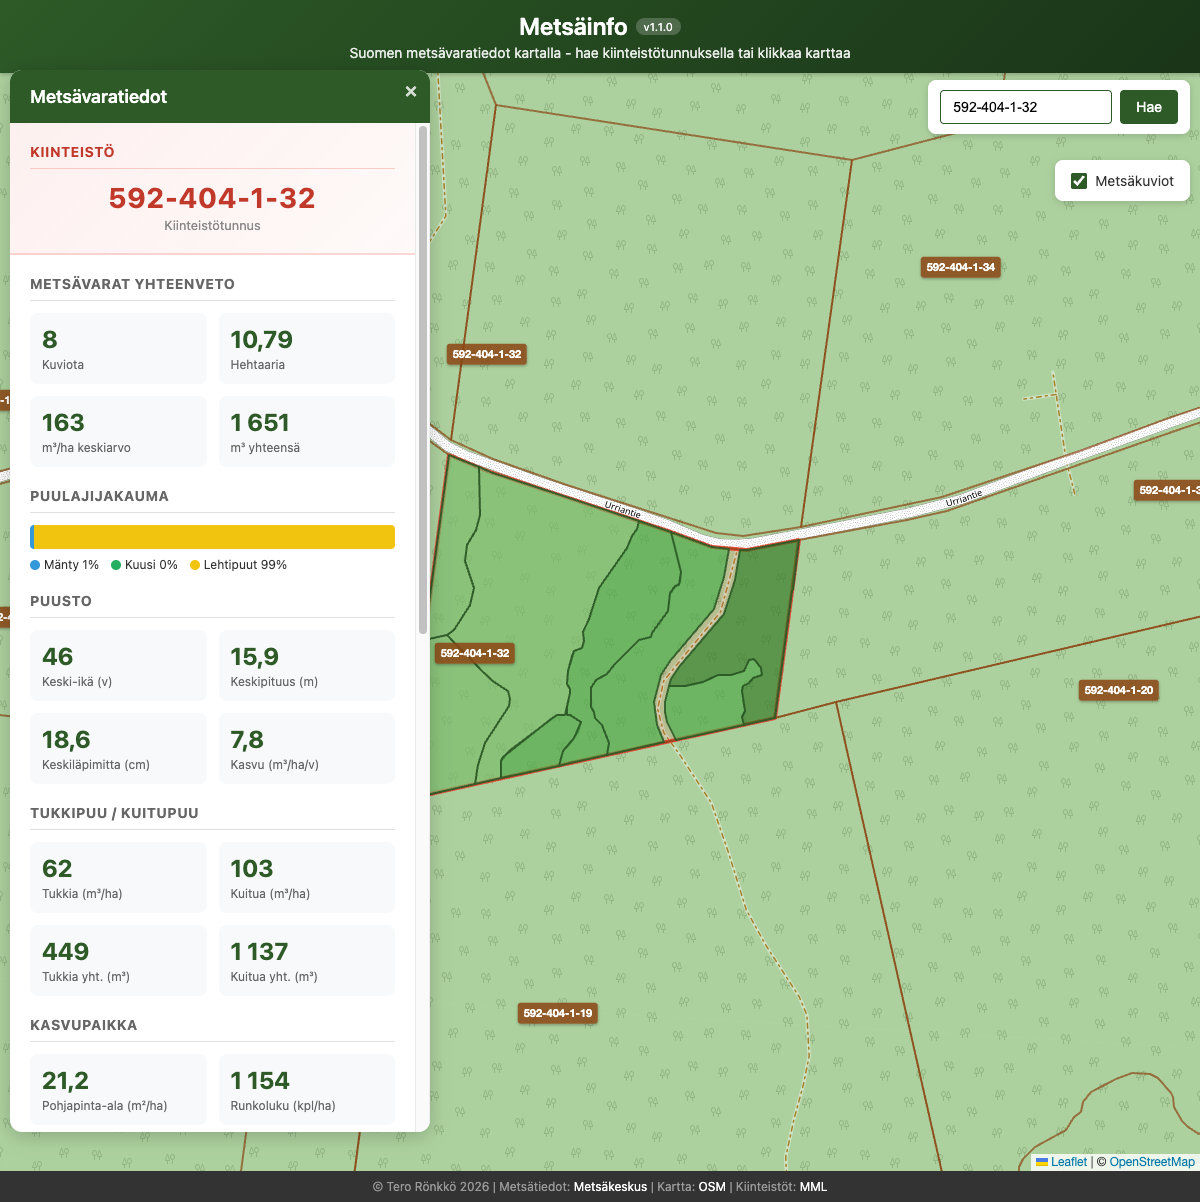
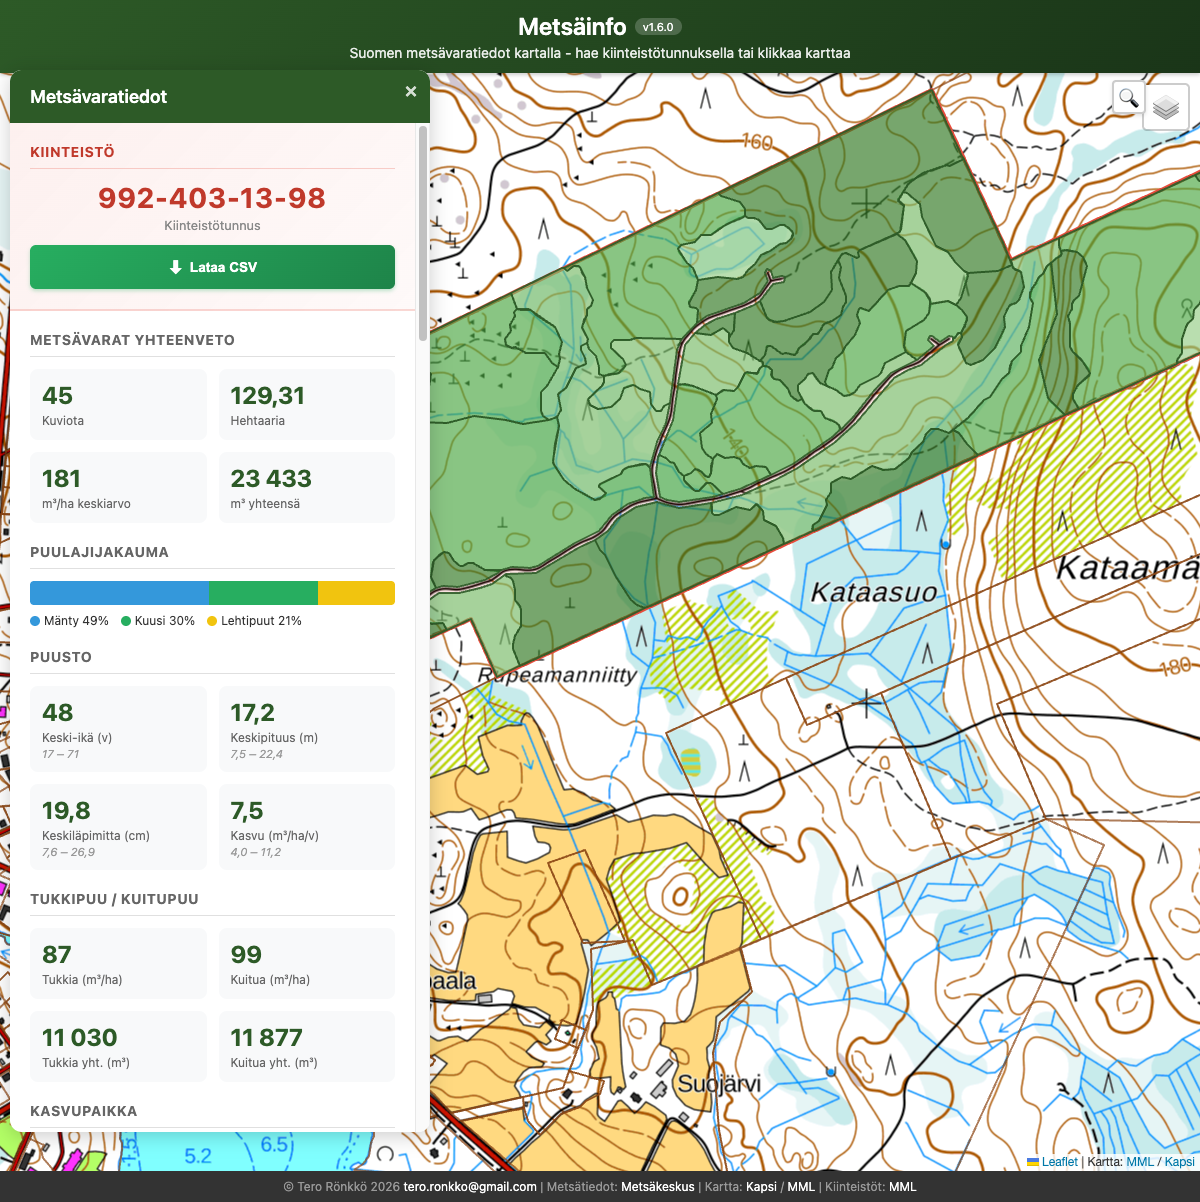
Päivitä kuvakaappaus ja keskitä kartta Suolahden itäpuolelle
- Uusi kuvakaappaus metsätiedoilla näkyvissä
- Kartan oletuskeskipiste siirretty 2km itään (25.85 -> 25.90)

diff --git a/app.js b/app.js
@@ -22,8 +22,8 @@ const crsEPSG3067 = new L.Proj.CRS(
 
 // Configuration
 const CONFIG = {
-    // Default center in WGS84 (lat, lng) - Suolahti
-    defaultCenter: [62.57, 25.85],
+    // Default center in WGS84 (lat, lng) - 2km east of Suolahti
+    defaultCenter: [62.57, 25.90],
     defaultZoom: 5,
     minZoomForParcels: 10, // Minimum zoom level to load parcels (adjusted for EPSG:3067)
 

diff --git a/README.md b/README.md
@@ -38,7 +38,8 @@ Sovellus toimii kokonaan selaimessa ilman backendiä.
 
 - **Leaflet.js** - Karttakirjasto
 - **Proj4js** - Koordinaatistomuunnokset (EPSG:3067 ↔ WGS84)
-- **OpenStreetMap** - Taustakartta
+- **Proj4Leaflet** - EPSG:3067 natiivituki Leafletille
+- **Kapsi/MML** - Suomalaiset taustakartat (peruskartta, taustakartta, ortokuva)
 
 ## Datalähteet
 
@@ -46,7 +47,7 @@ Sovellus toimii kokonaan selaimessa ilman backendiä.
 |------|-------|-----------|
 | Metsävaratiedot | [Metsäkeskus](https://www.metsakeskus.fi/fi/avoin-metsa-ja-luontotieto) | WFS |
 | Kiinteistörajat | [MML INSPIRE](https://www.maanmittauslaitos.fi/) | WFS |
-| Taustakartta | [OpenStreetMap](https://www.openstreetmap.org/) | TMS |
+| Taustakartat | [Kapsi](https://kartat.kapsi.fi/) / [MML](https://www.maanmittauslaitos.fi/) | TMS (EPSG:3067) |
 
 ## Kehitys
 
@@ -72,6 +73,9 @@ Katso [CLAUDE-HOWTO.md](CLAUDE-HOWTO.md) jossa on:
 
 ## Versiohistoria
 
+- **v1.6.0** (2026-01-22) - EPSG:3067 projektio, Kapsi/MML taustakartat, karttatasojen valitsin
+- **v1.5.0** (2026-01-22) - Koodistojen korjaus Metsäkeskuksen virallisen määrityksen mukaiseksi
+- **v1.4.0** (2026-01-22) - CSV-lataus metsäkuviotiedoille
 - **v1.3.0** (2026-01-21) - Moniosaisten kiinteistöjen tuki, min/max-tilastot
 - **v1.1.0** (2026-01-20) - Kiinteistöhaku, kuviokohtaiset tiedot, karttakorostukset
 - **v1.0.0** (2026-01-19) - Ensimmäinen julkaisu
